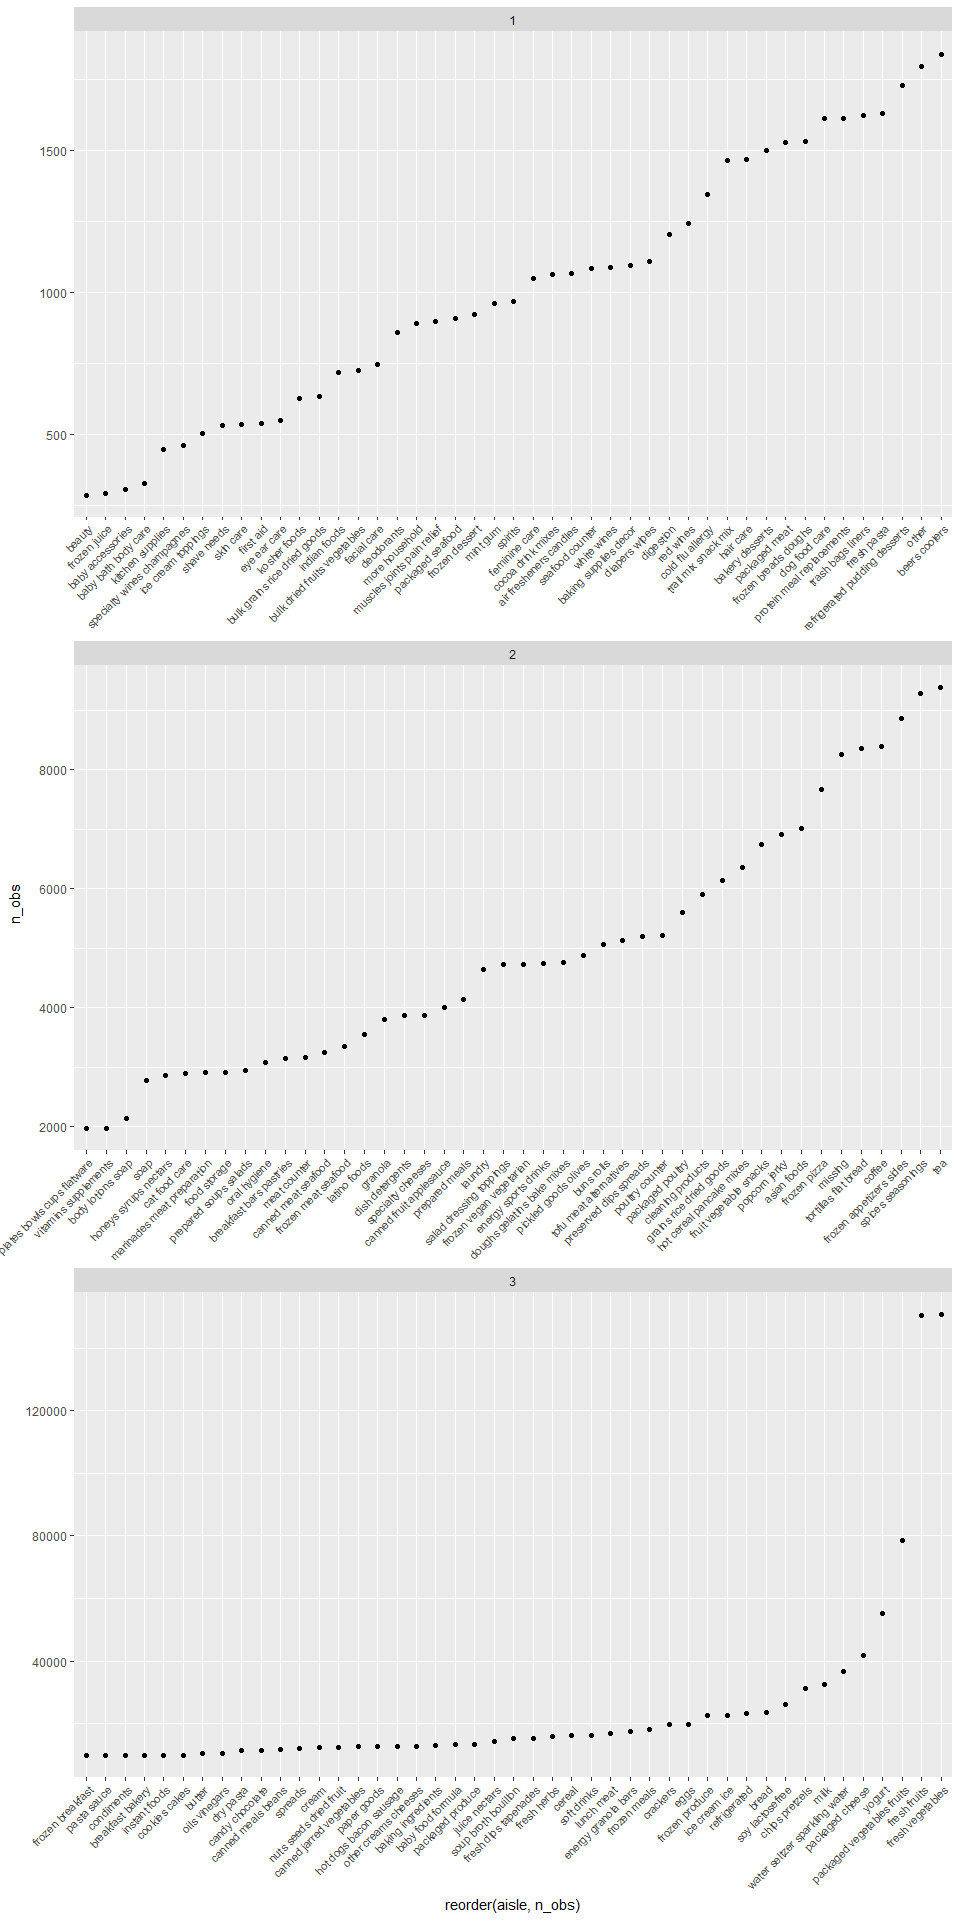
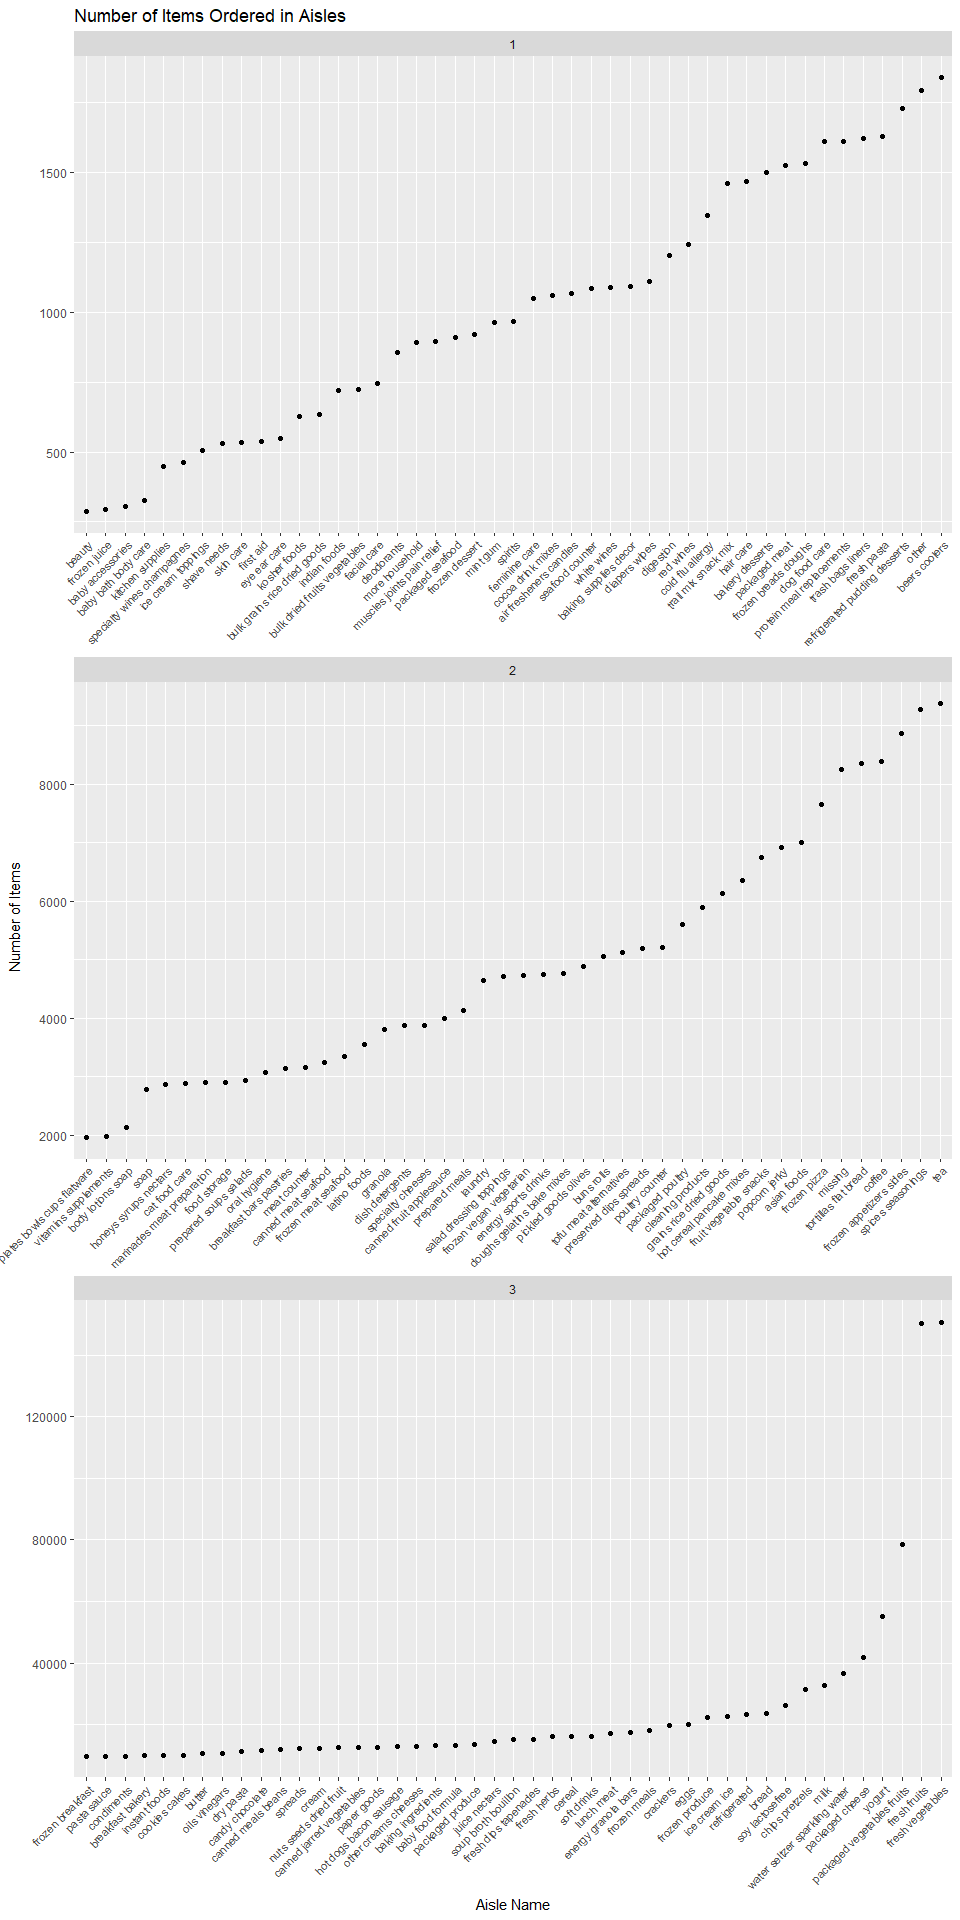
solve Problem 2_3 and Problem 2_4, making tables.

diff --git a/p8105_hw3_st3117.md b/p8105_hw3_st3117.md
@@ -171,7 +171,7 @@ instacart %>%
   group_by(aisle) %>%
   summarize(n_obs = n()) %>% 
   arrange(-n_obs) %>% 
-  head(1)
+  filter(row_number() == 1)
 ```
 
     ## # A tibble: 1 x 2
@@ -187,13 +187,49 @@ instacart %>%
   group_by(aisle) %>%
   summarize(n_obs = n()) %>% 
   mutate(group = as.numeric(cut_number(n_obs, 3))) %>% 
-    ggplot(aes(x = reorder(aisle, n_obs), y = n_obs)) +
+  ggplot(aes(x = reorder(aisle, n_obs), y = n_obs)) +
     geom_point() +
     facet_wrap(group ~ ., nrow = 3, scales = "free") +
-    theme(axis.text.x = element_text(size = 8, hjust = 1, angle = 45))
+    theme(axis.text.x = element_text(size = 8, hjust = 1, angle = 45)) +
+    labs(
+      title = "Number of Items Ordered in Aisles",
+      x = "Aisle Name",
+      y = "Number of Items"
+      )
 ```
 
 ![](p8105_hw3_st3117_files/figure-markdown_github/Problem%202_2-1.png)
 
 Make a table showing the most popular item in each of the aisles “baking ingredients”, “dog food care”, and “packaged vegetables fruits”
 ----------------------------------------------------------------------------------------------------------------------------------------
+
+``` r
+instacart %>% 
+  filter(aisle == "baking ingredients" | aisle == "dog food care" | aisle == "packaged vegetables fruits") %>% 
+  group_by(aisle, product_name) %>% 
+  summarize(n_obs = n()) %>%
+  summarize(max_product = max(n_obs))
+```
+
+    ## # A tibble: 3 x 2
+    ##   aisle                      max_product
+    ##   <chr>                            <dbl>
+    ## 1 baking ingredients                 499
+    ## 2 dog food care                       30
+    ## 3 packaged vegetables fruits        9784
+
+``` r
+instacart %>% 
+  filter(aisle == "baking ingredients" | aisle == "dog food care" | aisle == "packaged vegetables fruits") %>% 
+  group_by(aisle, product_name) %>% 
+  summarize(n_obs = n()) %>% 
+  arrange(aisle, -n_obs) %>% 
+  filter(row_number() == 1) %>% 
+  knitr::kable()
+```
+
+| aisle                      | product\_name                                 |  n\_obs|
+|:---------------------------|:----------------------------------------------|-------:|
+| baking ingredients         | Light Brown Sugar                             |     499|
+| dog food care              | Snack Sticks Chicken & Rice Recipe Dog Treats |      30|
+| packaged vegetables fruits | Organic Baby Spinach                          |    9784|
